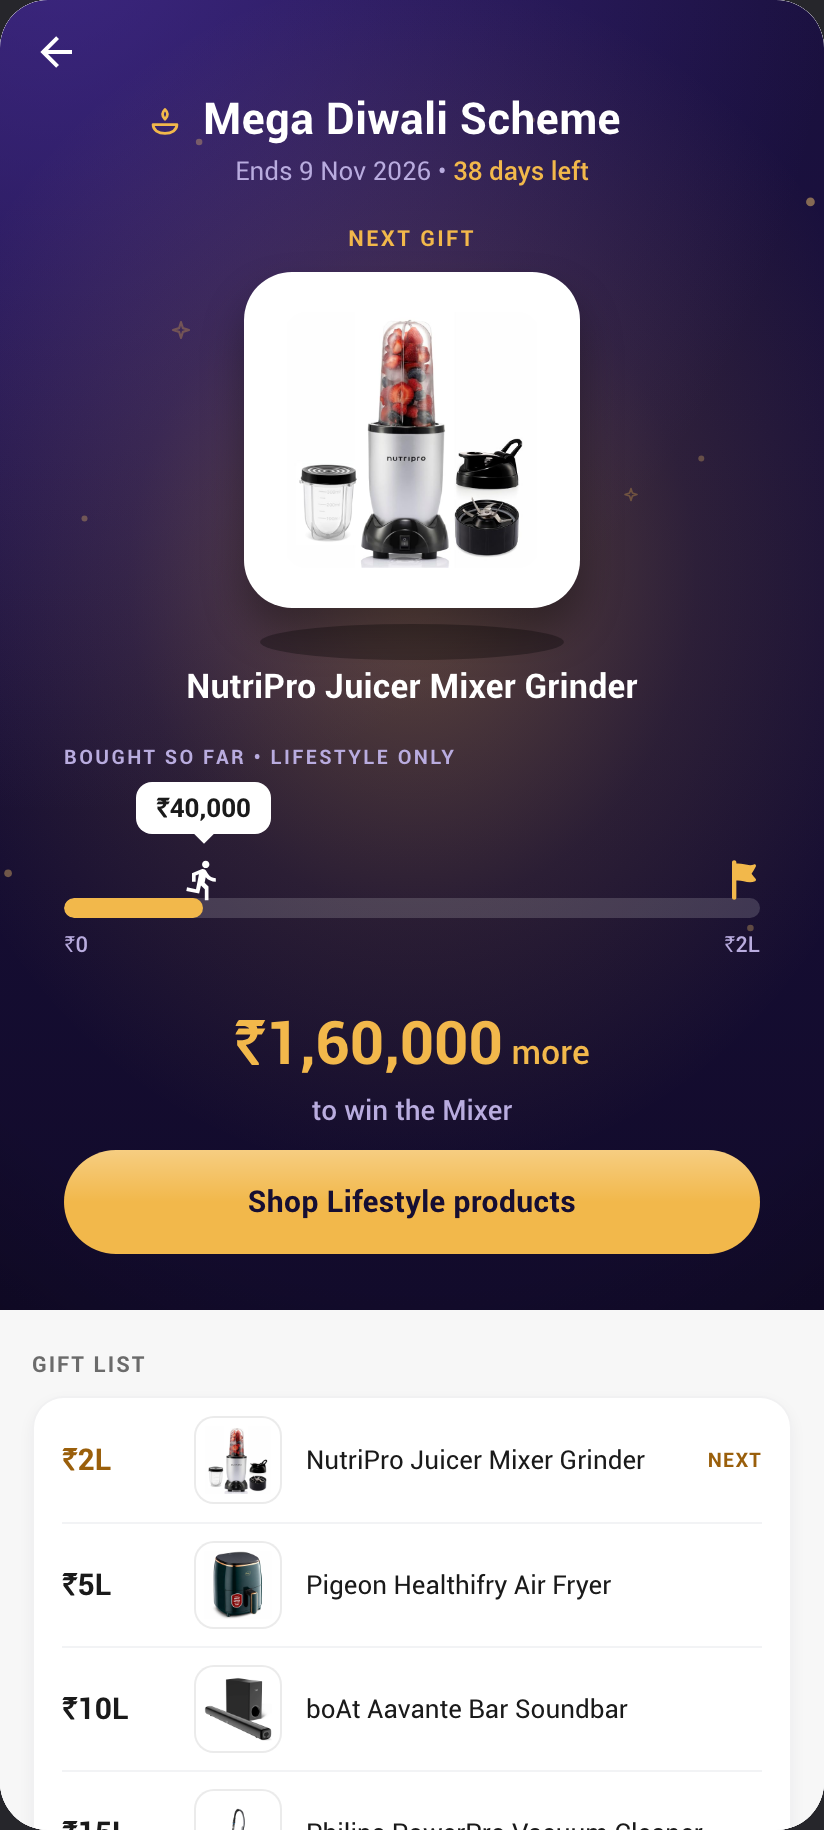
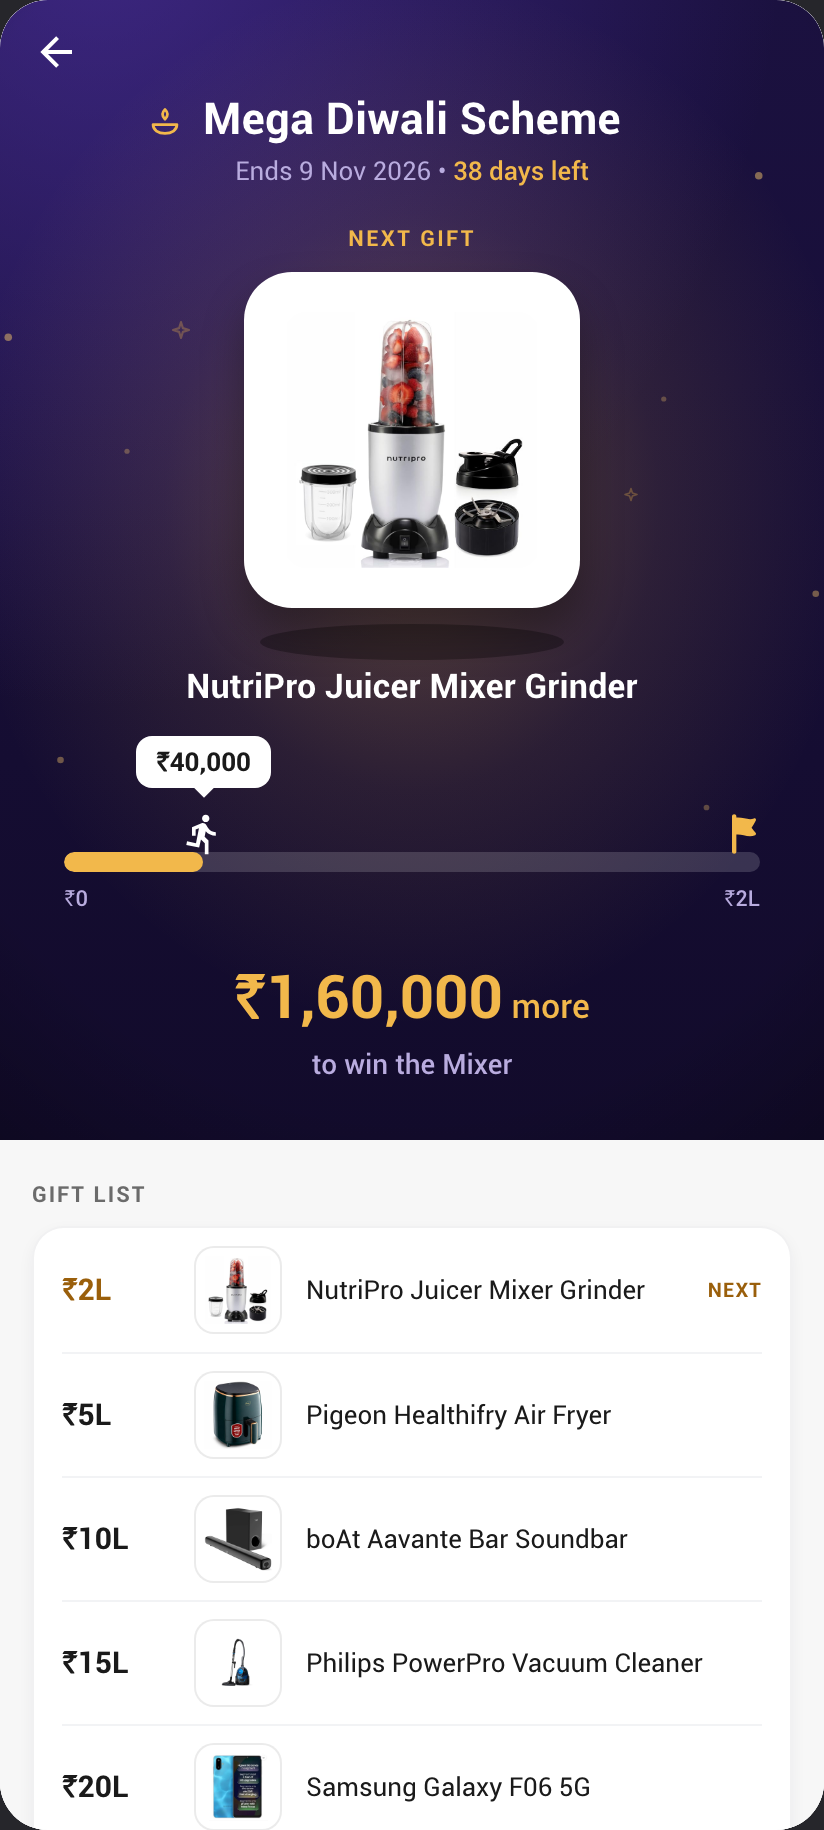
Detail order: capsule under the ask; CTA at the page's end; eyebrow gone
- The qualified capsule moves below the remaining-amount text: meter,
  slab values, the ask, then the receipt.
- The BOUGHT SO FAR eyebrow is removed; the value tag on the runner
  carries the amount alone.
- The CTA reads 'View Eligible Products' (hi: 'एलिजिबल प्रोडक्ट देखें') and
  moves off the stage to the page's end, between the top-gift card and
  the terms; the light zone paints it with the card accent tokens so it
  survives the default theme's white stage accent. DOM-verified order:
  TOP GIFT -> CTA -> terms.

diff --git a/app/mega-diwali/index.js b/app/mega-diwali/index.js
@@ -116,12 +116,11 @@ const T = {
     topGift: 'TOP GIFT',
     wonTop: 'YOU WON THE TOP GIFT',
     securedRow: (name) => `You've qualified for the ${name}`,
-    boughtLabel: (ladder) => `BOUGHT SO FAR \u2022 ${ladder.toUpperCase()} ONLY`,
     morePrefix: '', moreSuffix: ' more',
     onlyPrefix: 'Only ', onlySuffix: ' left',
     rest: (next) => `to win the ${next}`,
     finalBought: (amt) => `Final buying: ${amt}`,
-    cta: (ladder) => `Shop ${ladder} products`,
+    cta: () => 'View Eligible Products',
     ctaEnded: 'See running schemes',
     startsNote: (d, ladder) => `Buy ${ladder} products from ${d}. The highest slab you cross is your gift.`,
     topNote: (d) => `Nothing is left to win. We order your gift after ${d}.`,
@@ -154,12 +153,11 @@ const T = {
     topGift: 'टॉप गिफ़्ट',
     wonTop: 'आपने टॉप गिफ़्ट जीता',
     securedRow: (name) => `आपने ${name} के लिए क्वालिफ़ाई किया`,
-    boughtLabel: () => 'अब तक की ख़रीदारी',
     morePrefix: '', moreSuffix: ' और चाहिए',
     onlyPrefix: 'सिर्फ़ ', onlySuffix: ' और',
     rest: (next) => `और ${next} जीतें`,
     finalBought: (amt) => `कुल ख़रीदारी: ${amt}`,
-    cta: (ladder) => `${ladder} प्रोडक्ट ख़रीदें`,
+    cta: () => 'एलिजिबल प्रोडक्ट देखें',
     ctaEnded: 'चल रही स्कीमें देखें',
     startsNote: (d, ladder) => `${d} से ${ladder} प्रोडक्ट ख़रीदें। जो सबसे ऊँचा स्लैब पार करें, वही गिफ़्ट आपका।`,
     topNote: (d) => `जीतने को और कुछ नहीं बचा। ${d} के बाद हम आपका ऑर्डर करेंगे।`,
@@ -197,7 +195,7 @@ const STEP_DATES = {
 
 // The primary pill: a top sheen for depth, a soft glow in its own color, and a
 // spring press to 0.96 that can be interrupted mid-motion.
-function CtaButton({ label, bg, fg, glow = false, onPress }) {
+function CtaButton({ label, bg, fg, glow = false, onPress, containerStyle }) {
   const p = usePressScale(0.96);
   return (
     <Animated.View style={{ transform: [{ scale: p.scale }] }}>
@@ -206,7 +204,7 @@ function CtaButton({ label, bg, fg, glow = false, onPress }) {
         onPressIn={p.pressIn}
         onPressOut={p.pressOut}
         android_ripple={{ color: '#00000022' }}
-        style={[styles.cta, { backgroundColor: bg }, glow && [styles.ctaGlow, { shadowColor: bg }]]}
+        style={[styles.cta, containerStyle, { backgroundColor: bg }, glow && [styles.ctaGlow, { shadowColor: bg }]]}
       >
         <LinearGradient
           colors={['rgba(255,255,255,0.30)', 'rgba(255,255,255,0)']}
@@ -449,15 +447,8 @@ export default function SchemeDetail() {
 
               {showBar ? (
                 <>
-                  {/* The measured fact: what the shop has bought, as a value tag
-                      riding the knob, so the number and its position on the
-                      journey read as one object. */}
-                  <Animated.View style={[styles.boughtBlock, rise(boughtA, 8)]}>
-                    <Text style={[styles.boughtLabel, { color: st.sub }]} allowFontScaling={false}>
-                      {t.boughtLabel(LIFESTYLE.label)}
-                    </Text>
-                  </Animated.View>
-
+                  {/* The measured fact: the bought amount rides the runner as a
+                      value tag; the number and its position read as one object. */}
                   {trackW > 0 && localPct > 0 ? (
                     <View style={styles.dTagRow}>
                       <Animated.View
@@ -521,10 +512,22 @@ export default function SchemeDetail() {
                     <Text style={[styles.barEnd, TABULAR, { color: st.sub }]} allowFontScaling={false}>{slab(s.next.at)}</Text>
                   </Animated.View>
 
-                  {/* The won gift sits BELOW the progress: a settled receipt under
-                      the slab it was won at, never dressed as a prize. */}
+                  {/* The ask, in the accent: what is left, and what it wins. */}
+                  <Animated.View style={rise(amountA, 10)}>
+                    <Text style={[styles.bigMore, TABULAR, { color: amountParts.color }]} allowFontScaling={false}>
+                      {amountParts.pre ? <Text style={styles.bigMoreWord}>{amountParts.pre}</Text> : null}
+                      {amountParts.amt}
+                      <Text style={styles.bigMoreWord}>{amountParts.post}</Text>
+                    </Text>
+                    <Text style={[styles.bigRest, { color: st.sub }]} allowFontScaling={false}>
+                      {t.rest(s.next.shortName)}
+                    </Text>
+                  </Animated.View>
+
+                  {/* Below the ask: what is already qualified, a settled receipt,
+                      never dressed as a prize. */}
                   {securedCapsule ? (
-                    <Animated.View style={[styles.securedWrap, rise(amountA, 6)]}>
+                    <Animated.View style={[styles.securedWrap, rise(ctaA, 6)]}>
                       <View style={styles.secured}>
                         <View style={styles.securedThumb}>
                           {securedCapsule.image ? (
@@ -540,23 +543,6 @@ export default function SchemeDetail() {
                       </View>
                     </Animated.View>
                   ) : null}
-
-                  {/* The ask, in the accent: what is left, and what it wins. */}
-                  <Animated.View style={rise(amountA, 10)}>
-                    <Text style={[styles.bigMore, TABULAR, { color: amountParts.color }]} allowFontScaling={false}>
-                      {amountParts.pre ? <Text style={styles.bigMoreWord}>{amountParts.pre}</Text> : null}
-                      {amountParts.amt}
-                      <Text style={styles.bigMoreWord}>{amountParts.post}</Text>
-                    </Text>
-                    <Text style={[styles.bigRest, { color: st.sub }]} allowFontScaling={false}>
-                      {t.rest(s.next.shortName)}
-                    </Text>
-                  </Animated.View>
-
-                  {/* The close: into the eligible catalog */}
-                  <Animated.View style={rise(ctaA, 10)}>
-                    <CtaButton label={t.cta(LIFESTYLE.label)} bg={st.accent} fg={st.accentInk} glow />
-                  </Animated.View>
                 </>
               ) : heroNote ? (
                 <Animated.View style={rise(nameA, 8)}>
@@ -708,6 +694,21 @@ export default function SchemeDetail() {
         </>
         )}
 
+        {/* The close, at the page's end: under the top gift, above the terms.
+            The light zone uses the CARD accent tokens (the stage accent can be
+            white on the default theme and would vanish here). */}
+        {showBar ? (
+          <Animated.View style={rise(ctaA, 10)}>
+            <CtaButton
+              label={t.cta()}
+              bg={th.card.accent}
+              fg={th.card.accentInk}
+              glow
+              containerStyle={styles.bottomCta}
+            />
+          </Animated.View>
+        ) : null}
+
         {/* Three facts. The whole rulebook on this page. */}
         {!s.ended ? (
           <View style={styles.facts}>
@@ -823,10 +824,7 @@ const styles = StyleSheet.create({
 
   // The label belongs to the meter, so it anchors at the track's left edge and
   // holds still while the value tag moves with the knob.
-  boughtBlock: { marginTop: 18, marginHorizontal: 32, alignItems: 'flex-start' },
-  boughtLabel: { fontFamily: F.bold, fontSize: 10, lineHeight: 13, letterSpacing: 1.2 },
-
-  dTagRow: { height: 34, marginTop: 6 },
+  dTagRow: { height: 34, marginTop: 14 },
   tagWrap: { position: 'absolute', alignItems: 'center' },
   dTag: { backgroundColor: '#fff', borderRadius: 8, paddingHorizontal: 10, height: 26, justifyContent: 'center' },
   dTagText: { color: N.ink, fontFamily: F.bold, fontSize: 13, lineHeight: 16 },
@@ -869,6 +867,7 @@ const styles = StyleSheet.create({
   missedTitle: { fontFamily: F.bold, fontSize: 17, lineHeight: 22 },
   missedNote: { marginTop: 6, textAlign: 'center', fontFamily: F.regular, fontSize: 13, lineHeight: 19, paddingHorizontal: 44 },
   missedCta: { alignSelf: 'stretch', marginTop: 4 },
+  bottomCta: { marginTop: 16, marginHorizontal: 16 },
 
   listLabel: { marginTop: 20, marginHorizontal: 16, fontFamily: F.bold, fontSize: 11, lineHeight: 15, color: N.sub, letterSpacing: 1 },
   list: {
